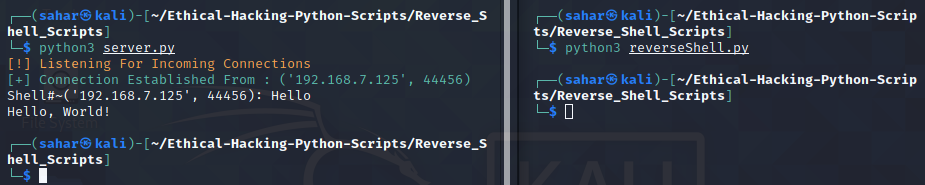
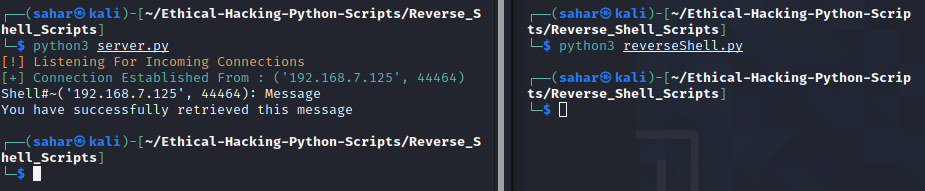
Update reverseShell.py

Changed region(s): [[0.0, 0.0, 0.9989, 1.0]]

diff --git a/Reverse_Shell_Scripts/reverseShell.py b/Reverse_Shell_Scripts/reverseShell.py
@@ -6,7 +6,7 @@ import socket
 
 def shell():
     command = sock.recv(1024)
-    message = "Hello, World!"
+    message = "You have successfully retrieved this message"
     sock.send(message.encode())
 
 sock = socket.socket(socket.AF_INET, socket.SOCK_STREAM)
